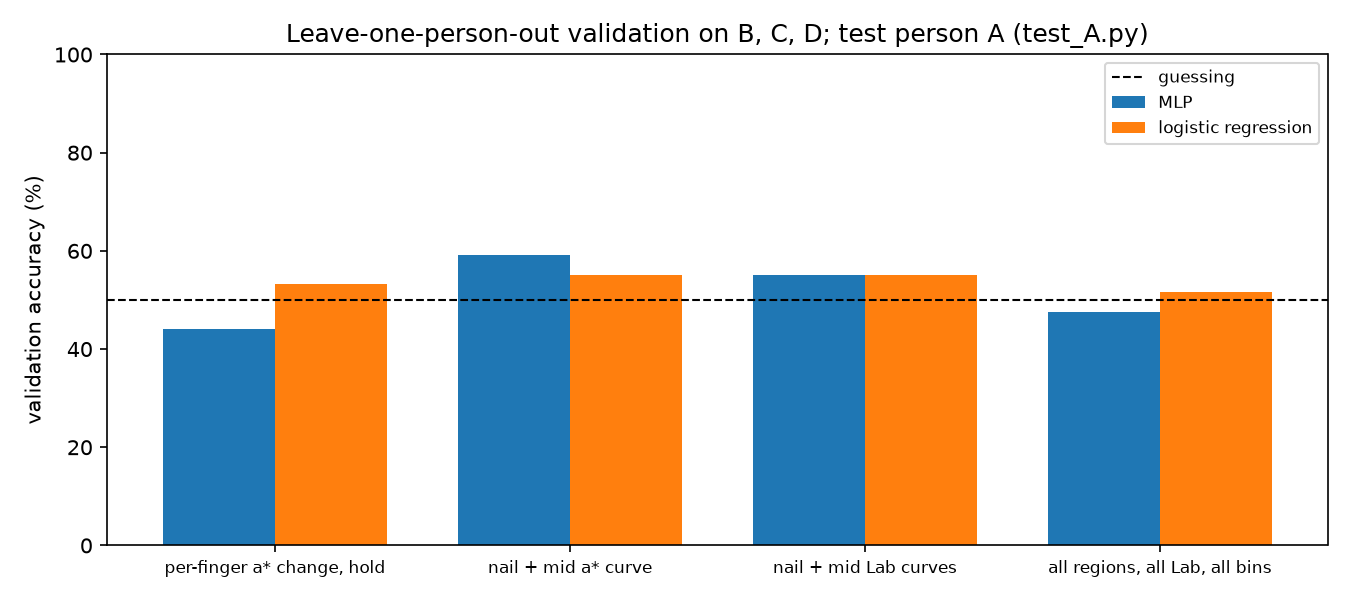
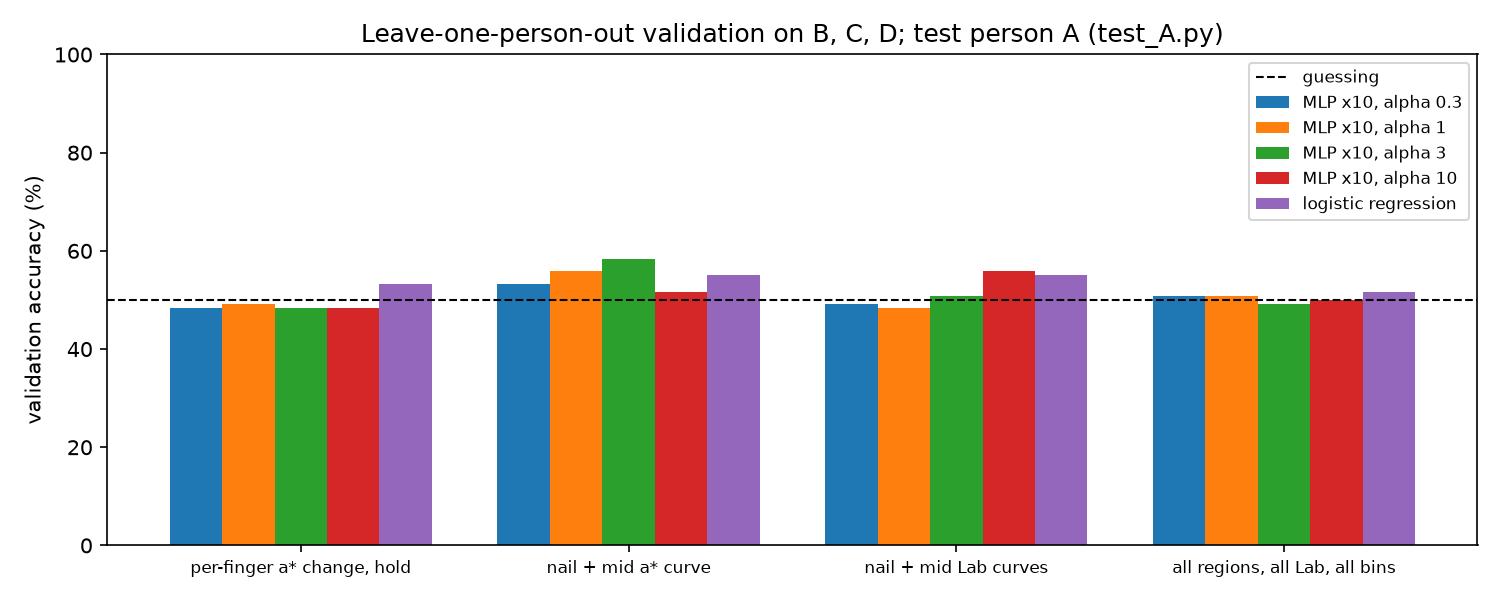
Made model have each set of data run as control set once

diff --git a/James F/colour_method/colour_method.py b/James F/colour_method/colour_method.py
@@ -4,10 +4,12 @@
 #   Finger patches   MediaPipe landmarks -> 10 discs per frame: nail and middle segment of each finger
 #   Patch colour     per frame: CIELAB of the skin pixels in each disc, relative to the white wall
 #   Clip curves      run on every clip once and cache colours (and landmarks) per frame
-#   Network input    per grip: colour change from rest, averaged into time bins -> one vector per grip
+#   Network input    per grip: colour change from rest, averaged into time bins -> one vector per grip;
+#                    classifier = ensemble of 10 MLPs (EnsembleMLP), logistic regression as a baseline
 #   Grip figures     one input -> output image per grip: frame with patches, colour curves, firm probability
 #   Run one case     run(test_person): validation on the other three people (leave-one-person-out),
-#                    choose input + model, train on all three, test once on test_person, save one image
+#                    choose input + MLP penalty by validation log loss, train on all three,
+#                    test once on test_person, save one image
 #                    per test grip in figures/test_<person>/ and the validation bar chart
 #   AI use           Claude Opus 5.5 (claude-opus-5-5), default setting
 #
@@ -27,8 +29,10 @@ import cv2
 import matplotlib.pyplot as plt
 import numpy as np
 import pandas as pd
+from sklearn.base import BaseEstimator, ClassifierMixin
 from sklearn.impute import SimpleImputer
 from sklearn.linear_model import LogisticRegression
+from sklearn.metrics import log_loss
 from sklearn.neural_network import MLPClassifier
 from sklearn.pipeline import make_pipeline
 from sklearn.preprocessing import StandardScaler
@@ -61,7 +65,8 @@ PATCH_RADIUS = 0.45          # disc radius as a fraction of the segment length
 N_BINS = 10                  # each clip is cut into 10 equal time bins (clips are 2.5-3.5 s)
 REST_BINS = 2                # first 2 bins = hand reaching in, before the grip: the reference colour
 MLP_HIDDEN = (16,)           # one hidden layer of 16 neurons
-MLP_ALPHA = 1.0              # strong L2 penalty: ~80 training grips per fold, so overfitting is the risk
+MLP_ALPHAS = [0.3, 1.0, 3.0, 10.0]   # L2 penalties tried on validation (~80 training grips: overfitting is the risk)
+N_ENSEMBLE = 10              # each MLP is really 10 MLPs with different starting weights, probabilities averaged
 
 # nanmean over a patch/bin where MediaPipe never found the hand gives NaN (wanted; the imputer fills it)
 warnings.filterwarnings("ignore", "Mean of empty slice", RuntimeWarning)
@@ -200,11 +205,33 @@ INPUTS = {
     "all regions, all Lab, all bins": curves.reshape(len(df), -1),
 }
 
-MODELS = {
-    "MLP": lambda: MLPClassifier(hidden_layer_sizes=MLP_HIDDEN, alpha=MLP_ALPHA, max_iter=3000,
-                                 random_state=SEED),
-    "logistic regression": lambda: LogisticRegression(C=1.0, max_iter=2000, random_state=SEED),
-}
+class EnsembleMLP(ClassifierMixin, BaseEstimator):
+    """N_ENSEMBLE small MLPs that differ only in their random starting weights; predictions are averaged.
+
+    With ~80 training grips one MLP depends a lot on where it starts; averaging removes that luck.
+    lbfgs (full-batch quasi-Newton) is the usual solver for small data sets: it converges properly.
+    """
+
+    def __init__(self, alpha=1.0, n_members=N_ENSEMBLE, hidden=MLP_HIDDEN):
+        self.alpha, self.n_members, self.hidden = alpha, n_members, hidden
+
+    def fit(self, X, y):
+        self.members_ = [MLPClassifier(hidden_layer_sizes=self.hidden, alpha=self.alpha, solver="lbfgs",
+                                       max_iter=2000, random_state=SEED + s).fit(X, y)
+                         for s in range(self.n_members)]
+        self.classes_ = self.members_[0].classes_
+        return self
+
+    def predict_proba(self, X):
+        return np.mean([m.predict_proba(X) for m in self.members_], axis=0)
+
+    def predict(self, X):
+        return self.classes_[self.predict_proba(X).argmax(1)]
+
+
+MODELS = {f"MLP x{N_ENSEMBLE}, alpha {al:g}": (lambda al=al: EnsembleMLP(alpha=al)) for al in MLP_ALPHAS}
+MODELS["logistic regression"] = lambda: LogisticRegression(C=1.0, max_iter=2000, random_state=SEED)
+SELECTABLE = [k for k in MODELS if k.startswith("MLP")]   # logistic regression is only a baseline
 
 
 def make_model(kind):
@@ -283,22 +310,28 @@ def run(test_person, show=True, grip_images=True):
           f"{100 * found[~is_train].mean():.0f} % (test clips)\n")
 
     # Validation: leave-one-person-out inside the three training people; the test person is never touched.
-    print("Leave-one-person-out validation accuracy (guessing = 50 %)")
-    print(f"{'input':<32}{'model':<21}" + "".join(f"{'val ' + p:>8}" for p in people) + f"{'mean':>8}")
-    val_results = {}
+    # Choice is by mean validation log loss: accuracy on 40 grips moves in 2.5 % steps and is noisy,
+    # log loss also uses how confident each prediction was (lower = better, 0.693 = always saying 50 %).
+    print("Leave-one-person-out validation (guessing = 50 % accuracy, log loss 0.693)")
+    print(f"{'input':<32}{'model':<22}" + "".join(f"{'val ' + p:>8}" for p in people) + f"{'mean':>8}"
+          + f"{'logloss':>9}")
+    val_results, val_loss = {}, {}
     for name, X in INPUTS.items():
         for kind in MODELS:
-            acc = []
+            acc, loss = [], []
             for p in people:
                 tr = is_train & (df["person"] != p).values
                 va = is_train & (df["person"] == p).values
-                acc.append((make_model(kind).fit(X[tr], y[tr]).predict(X[va]) == y[va]).mean())
+                prob = make_model(kind).fit(X[tr], y[tr]).predict_proba(X[va])[:, 1]
+                acc.append(((prob > 0.5) == y[va]).mean())
+                loss.append(log_loss(y[va], prob, labels=[0, 1]))
             val_results[(name, kind)] = np.mean(acc)
-            print(f"{name:<32}{kind:<21}" + "".join(f"{100 * v:>7.0f}%" for v in acc)
-                  + f"{100 * np.mean(acc):>7.0f}%")
+            val_loss[(name, kind)] = np.mean(loss)
+            print(f"{name:<32}{kind:<22}" + "".join(f"{100 * v:>7.0f}%" for v in acc)
+                  + f"{100 * np.mean(acc):>7.0f}%{np.mean(loss):>9.3f}")
 
     # Test: train the chosen version on all three training people, evaluate once on test_person.
-    best_input, best_model = max(val_results, key=val_results.get)   # chosen on validation only
+    best_input, best_model = min([k for k in val_loss if k[1] in SELECTABLE], key=val_loss.get)   # validation only
     X = INPUTS[best_input]
     model = make_model(best_model).fit(X[is_train], y[is_train])
     p_firm = model.predict_proba(X)[:, 1]
@@ -306,7 +339,7 @@ def run(test_person, show=True, grip_images=True):
     test_acc = correct[~is_train].mean()
     n_test = (~is_train).sum()
     print(f"\nchosen on validation: '{best_input}' + {best_model} "
-          f"(val {100 * val_results[(best_input, best_model)]:.0f} %)")
+          f"(val {100 * val_results[(best_input, best_model)]:.0f} %, log loss {val_loss[(best_input, best_model)]:.3f})")
     print(f"test person {test_person}: {100 * test_acc:.1f} % ({correct[~is_train].sum()}/{n_test}), "
           f"guessing = 50 %")
     per_object = {}
@@ -324,11 +357,12 @@ def run(test_person, show=True, grip_images=True):
             plot_grip(k, p_firm[k], is_train, best_model, test_person, grip_dir)
         print(f"{n_test} grip images saved in {grip_dir}")
 
-    fig, ax = plt.subplots(figsize=(9, 4))
+    fig, ax = plt.subplots(figsize=(10, 4))
     names = list(INPUTS)
+    w = 0.8 / len(MODELS)
     for j, kind in enumerate(MODELS):
-        ax.bar(np.arange(len(names)) + (j - 0.5) * 0.38, [100 * val_results[(n, kind)] for n in names],
-               width=0.38, label=kind)
+        ax.bar(np.arange(len(names)) + (j - (len(MODELS) - 1) / 2) * w, [100 * val_results[(n, kind)] for n in names],
+               width=w, label=kind)
     ax.axhline(50, color="k", ls="--", lw=1, label="guessing")
     ax.set_xticks(np.arange(len(names)), names, fontsize=8)
     ax.set_ylabel("validation accuracy (%)")

diff --git a/James F/colour_method/performance.py b/James F/colour_method/performance.py
@@ -54,7 +54,7 @@ out("PERFORMANCE OF THE COLOUR METHOD (MediaPipe finger patches -> colour change
 out("Each case: one person is the test set; input and model are chosen by leave-one-person-out validation")
 out("on the other three people only, then trained on those three and tested once.")
 out()
-out(f"{'test':<6}{'chosen input':<32}{'model':<21}{'val':>6}{'test':>7}{'95% CI':>14}{'p':>8}"
+out(f"{'test':<6}{'chosen input':<32}{'model':<24}{'val':>6}{'test':>7}{'95% CI':>14}{'p':>8}"
     f"{'hard':>7}{'soft':>7}{'AUC':>7}")
 rows = []
 for r in results:
@@ -65,7 +65,7 @@ for r in results:
                  "val_acc": r["val_acc"], "test_acc": acc, "ci_low": lo, "ci_high": hi, "p_value": pval,
                  "hard_acc": r["hard"], "soft_acc": r["soft"], "auc": auc,
                  "correct": r["test_correct"], "n_test": r["n_test"]})
-    out(f"{r['test_person']:<6}{r['input']:<32}{r['model']:<21}{100 * r['val_acc']:>5.0f}%{100 * acc:>6.1f}%"
+    out(f"{r['test_person']:<6}{r['input']:<32}{r['model']:<24}{100 * r['val_acc']:>5.0f}%{100 * acc:>6.1f}%"
         f"{f'{100 * lo:.0f}-{100 * hi:.0f}%':>14}{pval:>8.3f}{100 * r['hard']:>6.0f}%{100 * r['soft']:>6.0f}%"
         f"{auc:>7.2f}")
 per_case = pd.DataFrame(rows)
